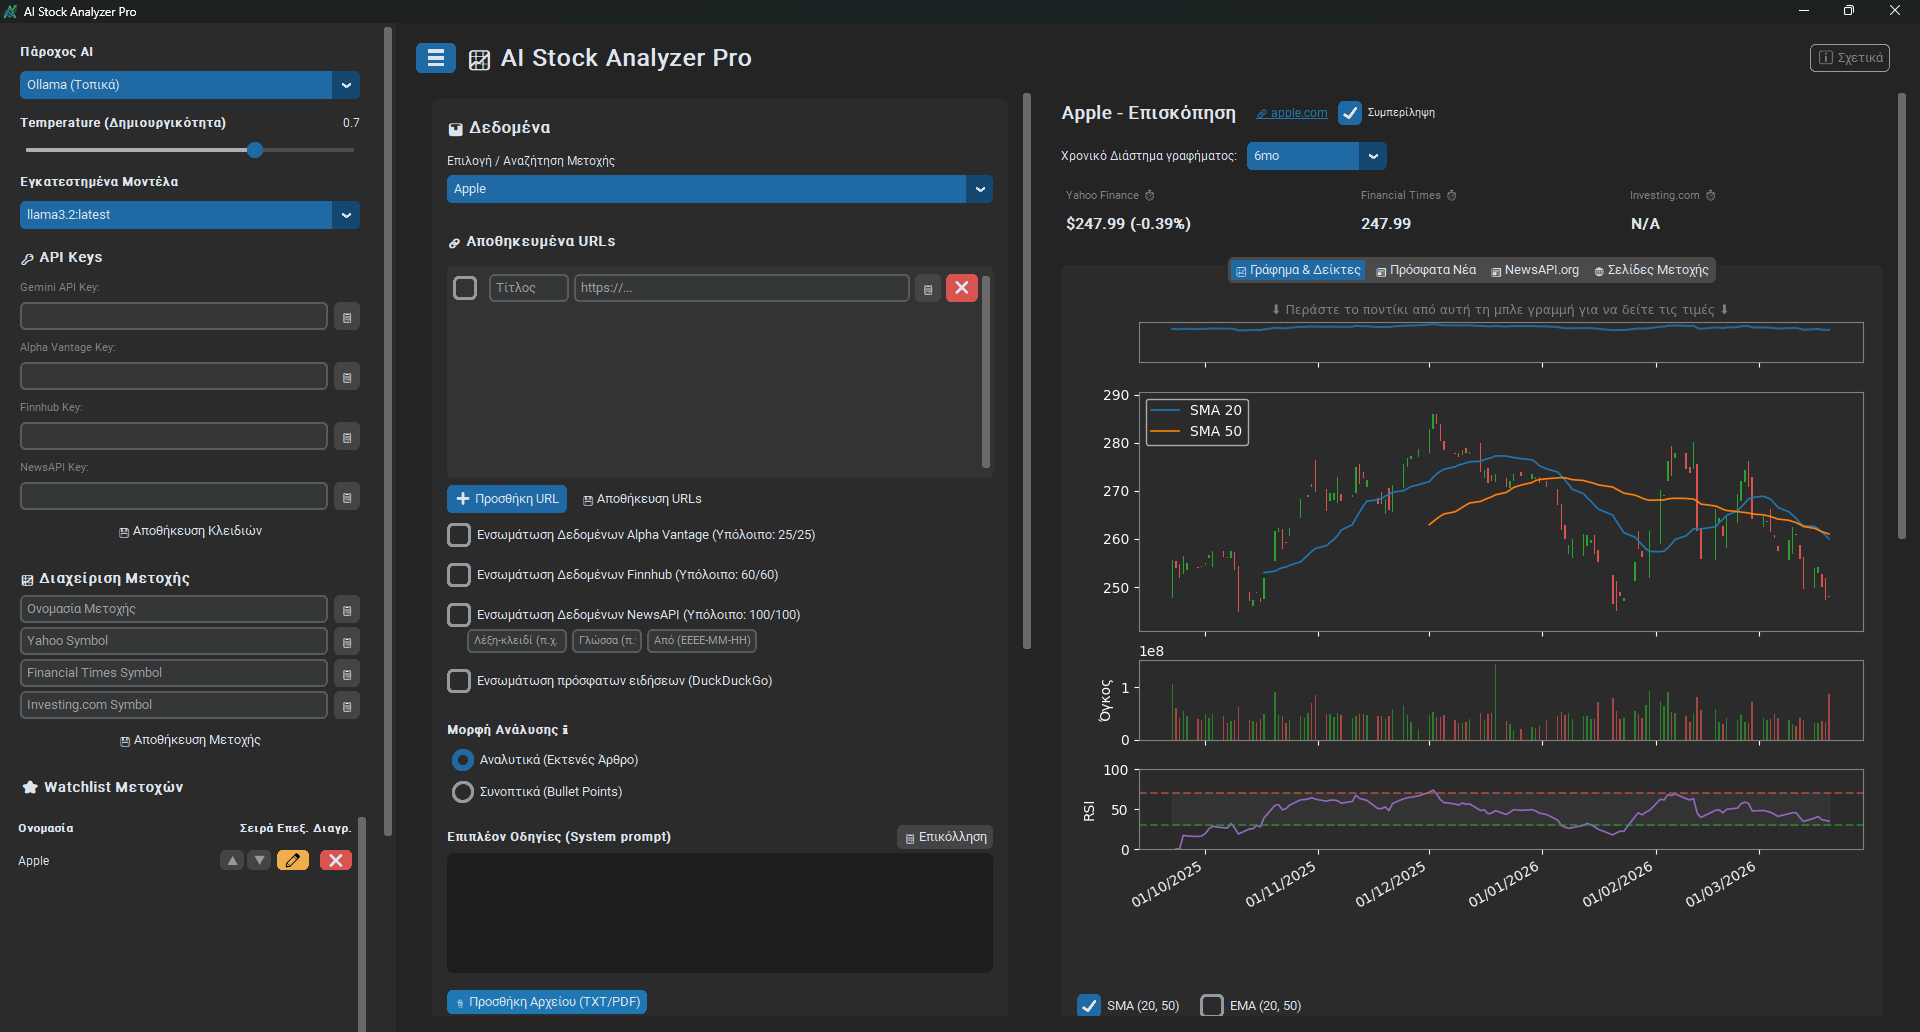
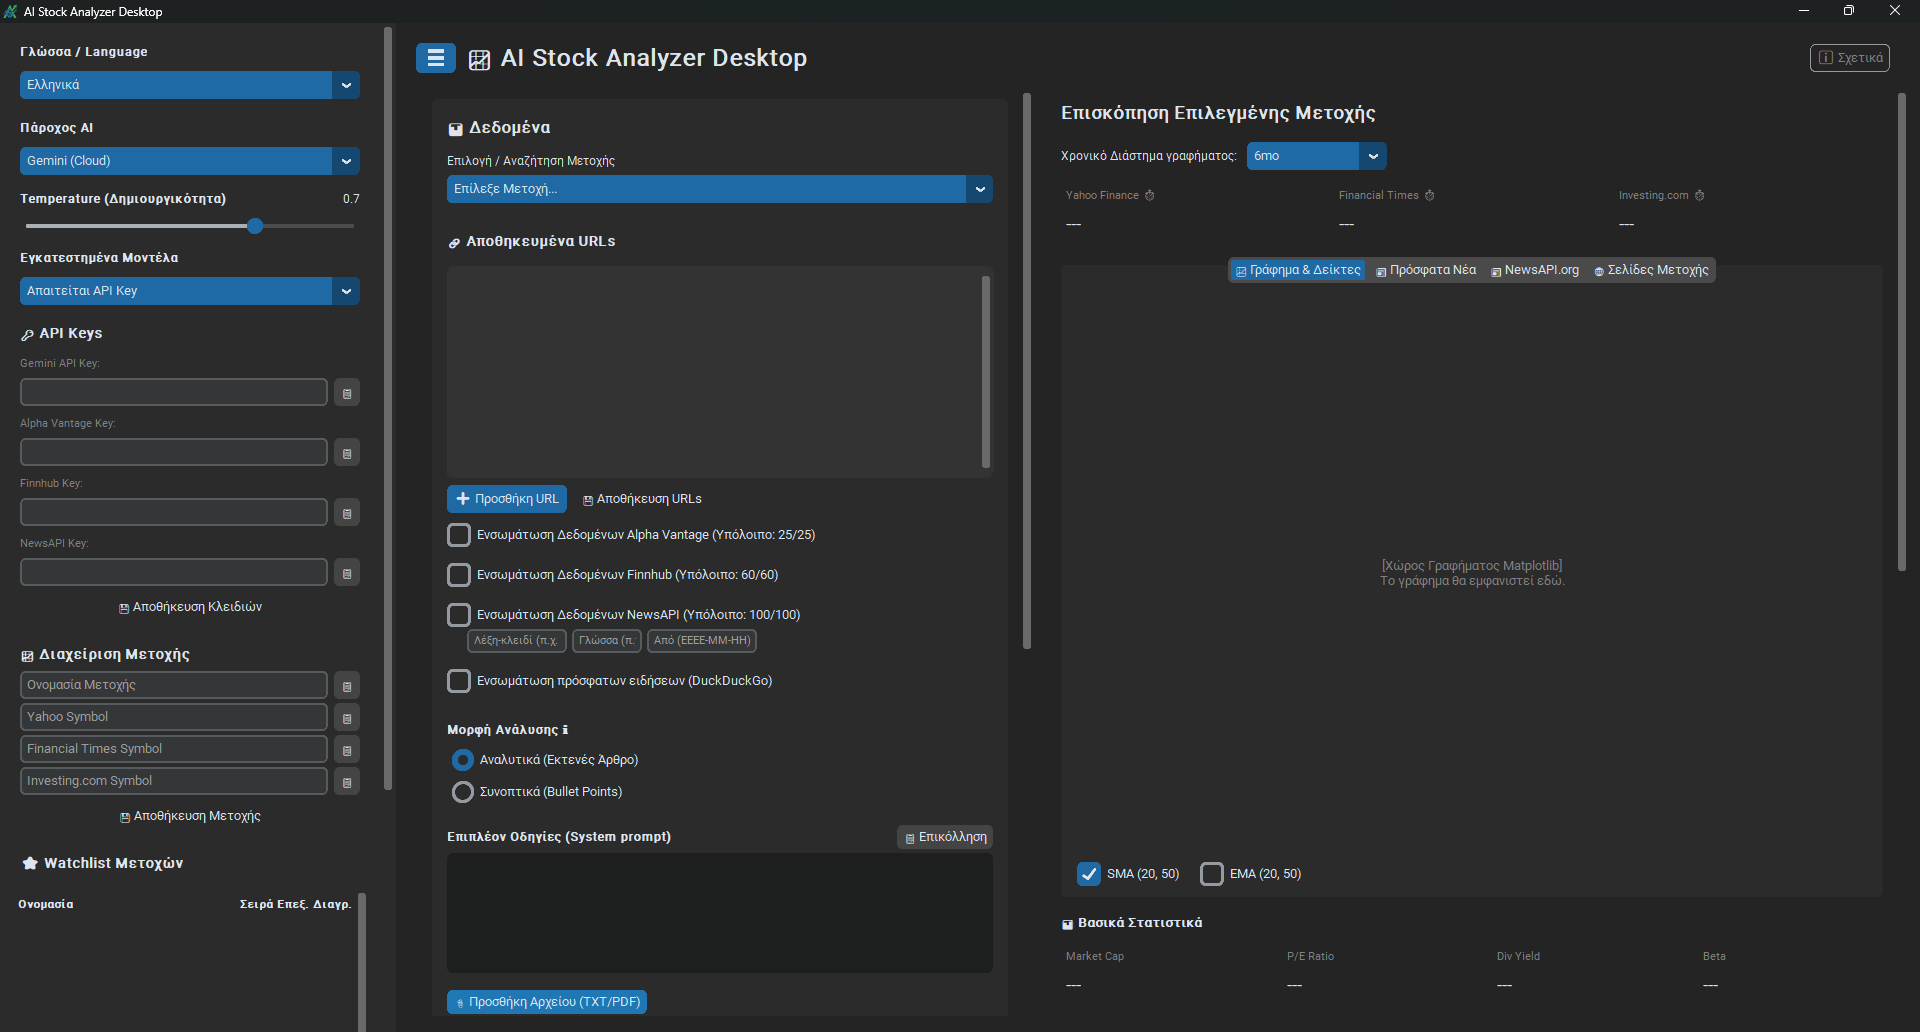
Προσθήκη Αγγλικού README και νέων screenshots

diff --git a/README.md b/README.md
@@ -1,6 +1,10 @@
-# 📈 AI Stock Analyzer Pro (Desktop Edition)
+[🇬🇧 English](#-english-version) | [🇬🇷 Ελληνικά](#-ελληνική-έκδοση)
 
-Το **AI Stock Analyzer Pro** είναι μια σύγχρονη Desktop εφαρμογή (Windows/macOS/Linux) γραμμένη σε Python, η οποία συνδυάζει **πραγματικά χρηματιστηριακά δεδομένα**, **τεχνικούς δείκτες** και **ειδήσεις**, χρησιμοποιώντας τη δύναμη της **Τεχνητής Νοημοσύνης (AI)** για την παραγωγή ολοκληρωμένων αναλύσεων μετοχών.
+---
+
+<h1 id="-ελληνική-έκδοση">📈 AI Stock Analyzer Desktop</h1>
+
+Το **AI Stock Analyzer Desktop** είναι μια σύγχρονη Desktop εφαρμογή (Windows/macOS/Linux) γραμμένη σε Python, η οποία συνδυάζει **πραγματικά χρηματιστηριακά δεδομένα**, **τεχνικούς δείκτες** και **ειδήσεις**, χρησιμοποιώντας τη δύναμη της **Τεχνητής Νοημοσύνης (AI)** για την παραγωγή ολοκληρωμένων αναλύσεων μετοχών.
 
 ![Python Version](https://img.shields.io/badge/python-3.8%2B-blue)
 ![License](https://img.shields.io/badge/license-MIT-green)
@@ -17,7 +21,7 @@
 <p align="center">
   <img src="assets/chart_view.png" width="390" alt="Αναλυτικό Γράφημα">
   <img src="assets/ai_analysis.png" width="390" alt="AI Report">
-  <img src="assets/dashboard.png" width="390" alt="Dashboard">
+  <img src="assets/dashboard_en.png" width="390" alt="Dashboard">
   <img src="assets/news.png" width="390" alt="News Feeds">
   <img src="assets/sites.png" width="390" alt="Sites">
 </p>
@@ -104,3 +108,83 @@ python desktop_app.py
 
 ---
 *⚠ **Αποποίηση Ευθύνης**: Το λογισμικό αυτό προορίζεται αποκλειστικά για εκπαιδευτικούς και ενημερωτικούς σκοπούς. Σε καμία περίπτωση δεν αποτελεί επενδυτική ή οικονομική συμβουλή. Πάντα να κάνετε τη δική σας έρευνα (DYOR) πριν από κάθε επένδυση.*
+
+---
+---
+
+<h1 id="-english-version">📈 AI Stock Analyzer Desktop (English)</h1>
+
+**AI Stock Analyzer Desktop** is a modern Desktop application (Windows/macOS/Linux) written in Python that combines **real market data**, **technical indicators**, and **news**, leveraging the power of **Artificial Intelligence (AI)** to generate comprehensive stock analyses.
+
+![Python Version](https://img.shields.io/badge/python-3.8%2B-blue)
+![License](https://img.shields.io/badge/license-MIT-green)
+
+---
+
+## 📸 Screenshots
+
+<p align="center">
+  <img src="assets/main_dashboard.png" width="800" alt="Main Dashboard"><br>
+  <i>(The main interface with charts, news, and AI analysis)</i>
+</p>
+
+<p align="center">
+  <img src="assets/chart_view.png" width="390" alt="Detailed Chart">
+  <img src="assets/ai_analysis.png" width="390" alt="AI Report">
+  <img src="assets/dashboard_en.png" width="390" alt="Dashboard">
+  <img src="assets/news.png" width="390" alt="News Feeds">
+  <img src="assets/sites.png" width="390" alt="Sites">
+</p>
+
+## ✨ Key Features
+
+- **Multilingual UI (i18n)**: Full support for English and Greek, both in the UI and the generated AI reports.
+- **Instant Startup & Performance**: Utilizes *Lazy Loading* techniques for instant application launch (zero wait time) and is distributed as an extracted folder rather than a single compressed executable.
+- **Auto-Updates**: Built-in update checker via GitHub API for instant new release notifications.
+- **Modern UI**: Dark Mode theme based on `CustomTkinter` with split-scroll columns, quick clipboard paste buttons, and Focus Mode (☰).
+- **Multiple Data Sources**:
+  - *Yahoo Finance*: Historical data, prices, P/E, Market Cap.
+  - *Financial Health & Performance*: Extraction and display of metrics like Revenue Growth, ROE, Debt to Equity, and Free Cash Flow.
+  - *Alpha Vantage & Finnhub*: On-demand real-time fundamental data via API (PE, EPS, 52W High/Low, Live Prices).
+  - *NewsAPI.org*: Advanced news search (sorted by relevancy) with custom keyword, language, and date ("From") filters.
+  - *Financial Times & Investing.com*: Secondary live price sources (Web Scraping).
+- **Local Files & Articles Import**: Support for uploading local **PDF and TXT** files, along with specific textboxes for manual article pasting, which the AI reads and analyzes.
+- **Trend Analysis & Indicators**: Trend calculation based on moving averages (SMA/EMA 20/50) and RSI indicators (Overbought/Oversold).
+- **Dynamic Charts (Matplotlib)**: Professional 4-layer charts (isolated Hover Track at the top, Candlesticks with locked Y-axis limits, Volume, and RSI), with the ability to maximize in a new window.
+- **Automated News Search**: Integration with `ddgs` (DuckDuckGo) to automatically find the latest articles/news (up to 1 year) for the selected stock.
+- **Corporate Site & Custom URLs Scraping**: Automatic discovery of the corporate website and scraping of external links, with clean text extraction (via `trafilatura`) to save AI tokens.
+- **Smart API Usage Counters**: Monitoring of daily call limits for Alpha Vantage, Finnhub, and NewsAPI to prevent key blocking.
+- **Artificial Intelligence (AI)**:
+  - **Creativity Control**: Built-in *Temperature* slider (0.0 - 1.0) to adjust AI response behavior.
+  - **Google Gemini (Cloud)**: Lightning-fast analysis via Google AI Studio (API Key required).
+  - **Ollama (Local)**: Support for local, open-source LLMs (e.g., Llama 3, Mistral) for absolute privacy.
+- **History Management & Export**: Automatic saving of analyses, export to Word (.docx), Cache clearing, and a secure **Clear All Data** (Factory Reset) button.
+
+---
+
+## 🚀 Installation & Setup
+
+### Prerequisites
+- **Python 3.8** or newer.
+- *(Optional but recommended)* API Keys for **Google Gemini**, **Alpha Vantage**, **Finnhub**, and **NewsAPI.org**.
+- *(Optional)* Installed Ollama if you wish to run models locally.
+
+### Execution
+1. **Clone the repository:** `git clone https://github.com/stratoslig/ai-stock-analyzer-Desktop.git`
+2. **Create a Virtual Environment:** `python -m venv venv` and activate it.
+3. **Install libraries:** `pip install -r requirements.txt`
+4. **Run the app:** `python desktop_app.py`
+
+---
+
+## 📂 Project Structure
+- `desktop_app.py`: The main GUI file using CustomTkinter and Matplotlib.
+- `translations.py`: Application dictionary for multilingual (i18n) support.
+- `stock_fetcher.py`: Data management, web scraping and APIs (Yahoo, Alpha Vantage, Finnhub).
+- `ai_service.py`: Management of LLMs (Google Gemini, Ollama) and generation of the analysis.
+- `data_manager.py`: Secure loading and saving of user settings (`user_data.json`).
+- `document_exporter.py`: Exporting the generated AI report to a Word document (.docx).
+- `ARCHITECTURE.md`: Detailed technical description of the code architecture.
+
+---
+*⚠ **Disclaimer**: This software is intended strictly for educational and informational purposes. Under no circumstances does it constitute investment or financial advice. Always Do Your Own Research (DYOR) before making any investment.*
